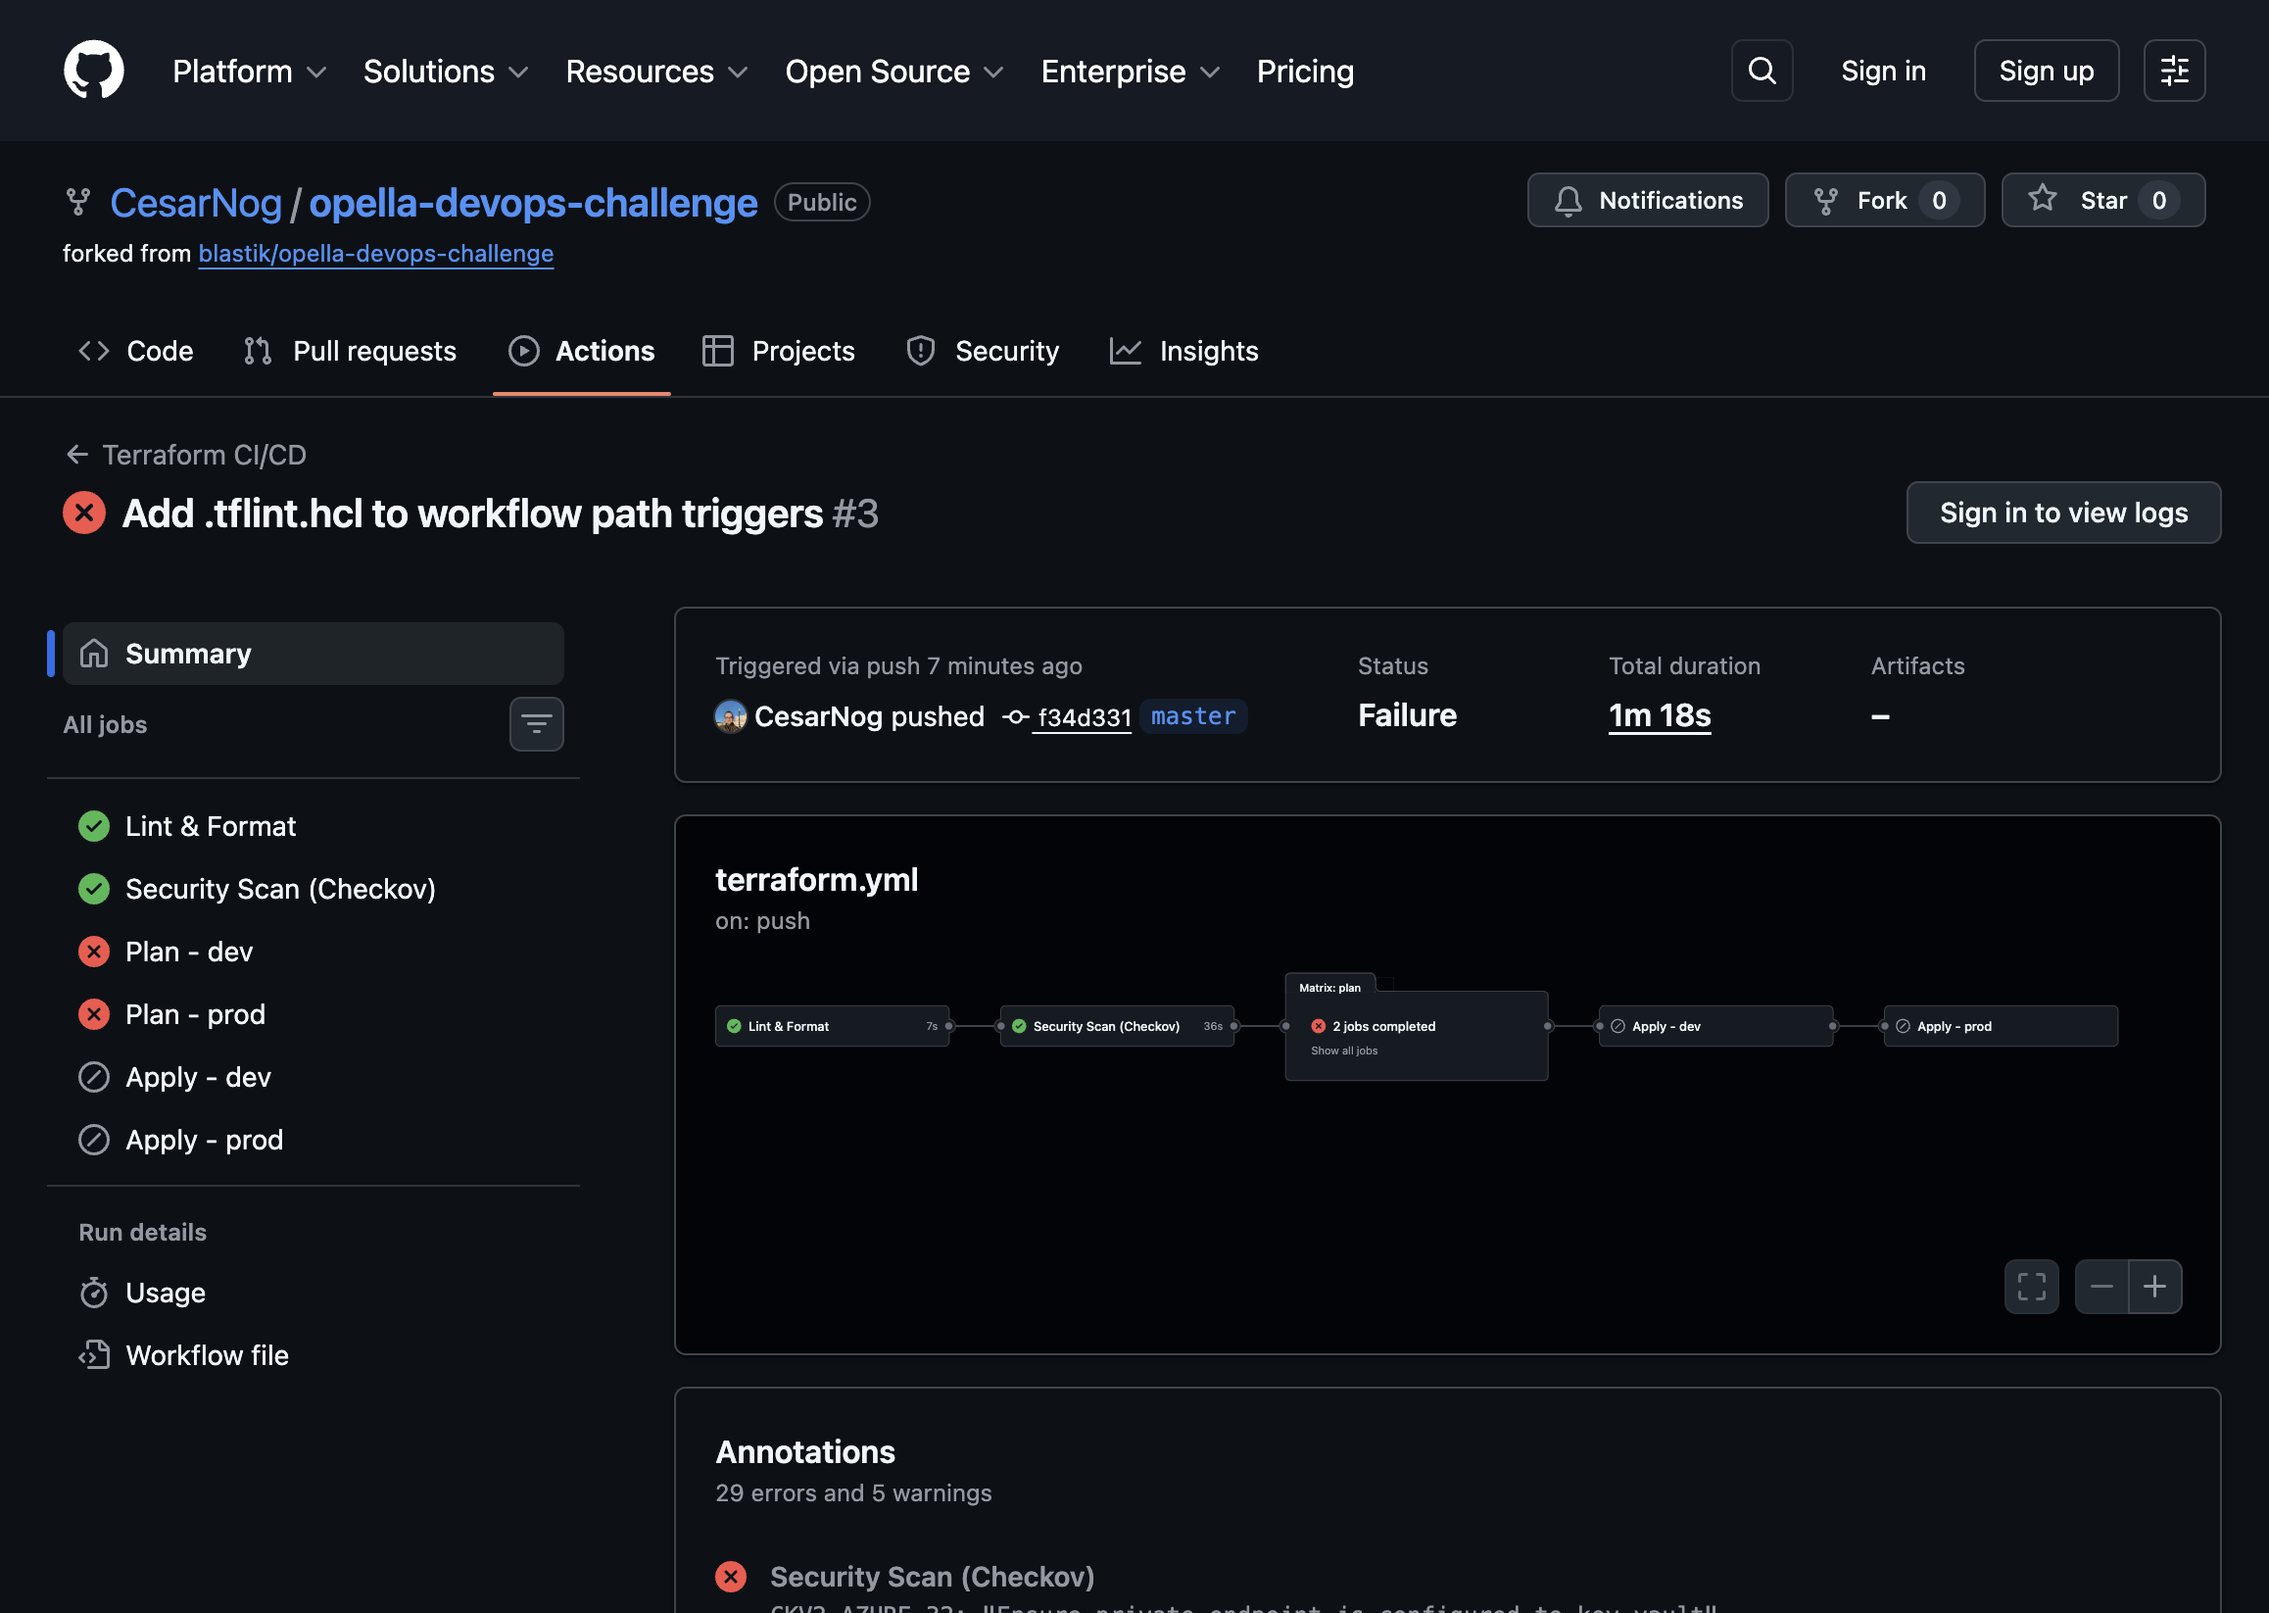
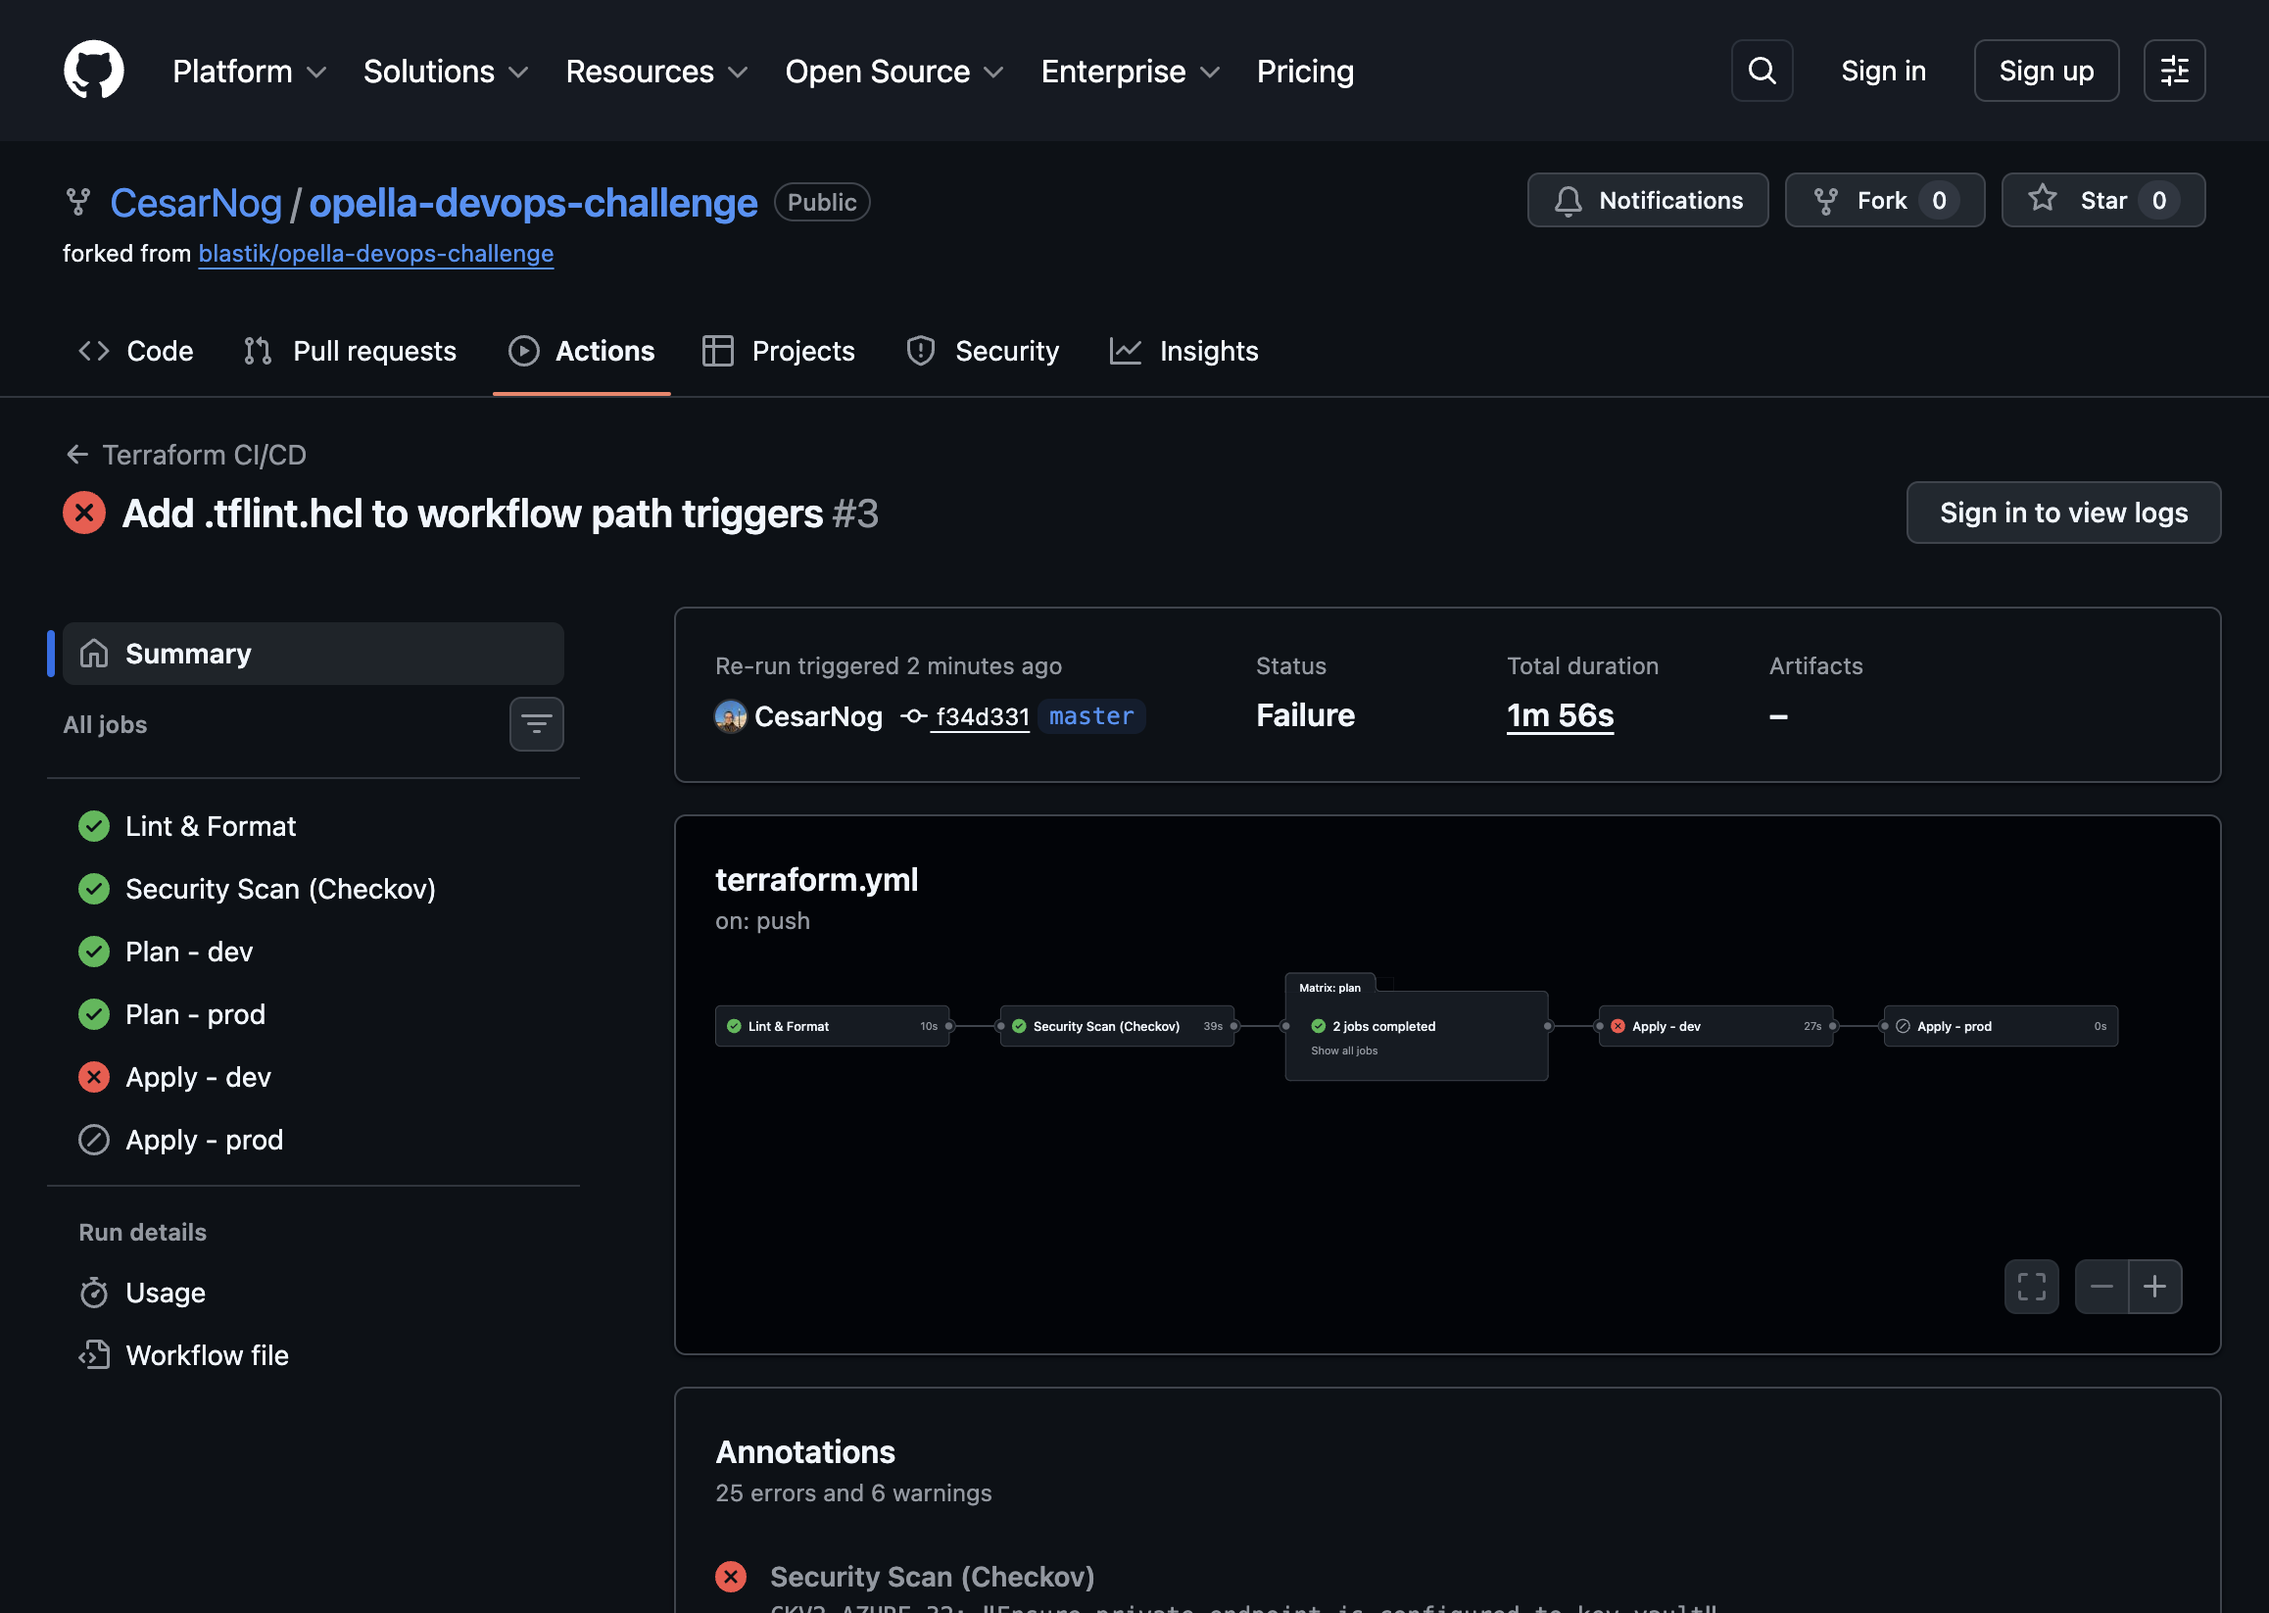
Update pipeline screenshot with passing Plan jobs
Azure secrets now configured; Lint, Checkov, Plan-dev, and Plan-prod
all pass. Apply-dev fails expected (no remote state backend).

Made-with: Cursor

Changed region(s): [[0.3109, 0.4028, 0.8705, 0.4648], [0.0311, 0.5887, 0.0622, 0.6817]]

diff --git a/README.md b/README.md
@@ -348,7 +348,7 @@ az ad sp create-for-rbac --name "github-terraform" \
 #### Pipeline Overview — All 5 Stages Visible
 ![Pipeline Overview](docs/screenshots/05-github-actions-pipeline.png)
 
-*Shows the full pipeline: Lint & Format (green), Security Scan/Checkov (green), Plan dev/prod (red due to missing Azure secrets — expected in public repo), and the Apply stages (skipped).*
+*Shows the full pipeline: Lint & Format (green), Security Scan/Checkov (green), Plan dev/prod (green). Apply-dev fails because CI uses a fresh state while resources already exist from local deploy (no remote backend configured).*
 
 #### Checkov Security Scan — Job Steps
 ![Checkov Job](docs/screenshots/06-github-actions-checkov.png)
